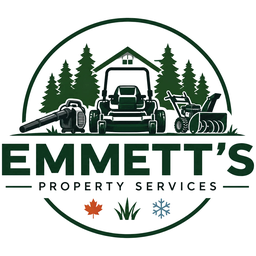
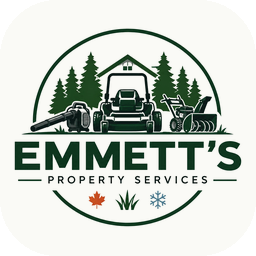
Fix the final review's findings
Visual:
- How it works: step titles centered under their rings again from md up.
- The quote button fits 320px phones (hero, in-season panel, menu sheet);
  the hero photo shrinks to the gutter and its crop clears the crew
  member's head.
- CallLink keeps the number on the prompt's baseline.
- Service rows stay stacked through tablets; wrapped icon rows hug their
  icons; form step titles balance; the /quote step line ends at the last
  ring; /contact and /quote eyebrows no longer repeat their headlines.

Accessibility:
- Focused elements scroll clear of the phone call bar.
- The menu sheet scrolls on short screens, skips its slide-in with
  reduced motion, and returns focus to the menu button on Escape.
- The theme's focus color no longer overrides outline-none (no double
  ring on service rows).
- Placeholder text reaches AA; the /contact ring number and the form's
  'Something not listed?' toggle are 44px targets; the hero kicker reads
  with a space.

Assets and code:
- Favicon on a rounded cream plate so it reads on dark tab strips; the
  crew app gets a maskable icon inside the safe circle.
- Marketing pages no longer preload Anton, which they don't use.
- The quote form uses ServiceBadge; drop ServiceGlyph, unused season icon
  keys and the unused maple/frost-light tokens; fix stale comments and
  README lines.

Claude-Session: https://claude.ai/code/session_01X4wNhSZ1epxn23EHwdy4vX

diff --git a/components/quote/quote-form.tsx b/components/quote/quote-form.tsx
@@ -6,7 +6,7 @@ import { AlertCircle, ArrowLeft, ArrowRight, Check, Loader2, Plus } from "lucide
 
 import { submitQuote } from "@/app/actions/quote";
 import { CallLink } from "@/components/site/call-link";
-import { ServiceGlyph } from "@/components/site/icons";
+import { ServiceBadge } from "@/components/site/icons";
 import { Button } from "@/components/ui/button";
 import { Input } from "@/components/ui/input";
 import { Label } from "@/components/ui/label";
@@ -96,7 +96,7 @@ function pickErrors(errors: QuoteFieldErrors, fields: readonly QuoteField[]): Qu
 /* ---------- small building blocks ---------- */
 
 // Forest over the shared input styles (the owner console's stay gray). /60 keeps the border above 3:1 on white.
-const controlSkin = "border-forest/60 text-forest shadow-none placeholder:text-forest-muted/70";
+const controlSkin = "border-forest/60 text-forest shadow-none placeholder:text-forest-muted";
 const inputClass = `h-12 rounded-xl px-4 text-base ${controlSkin}`;
 
 function FieldError({ id, message }: { id: string; message?: string }) {
@@ -202,12 +202,7 @@ function CheckRow({
           </span>
         )}
       </span>
-      {icon && (
-        // The badge's thin ring at icon scale (IconBadge's look; ServiceGlyph's heavier stroke thinned to match).
-        <span className="ml-auto flex size-9 shrink-0 items-center justify-center rounded-full border-[1.5px] border-forest text-forest">
-          <ServiceGlyph icon={icon} className="size-[1.125rem] [stroke-width:1.5]" />
-        </span>
-      )}
+      {icon && <ServiceBadge icon={icon} size="sm" className="ml-auto size-9 [&_svg]:size-[1.125rem]" />}
     </label>
   );
 }
@@ -234,7 +229,7 @@ function Group({
       {/* Step titles in the badge's heavy caps; secondary groups in the small letterspaced caps /contact uses. */}
       <legend
         className={cn(
-          "font-heading uppercase text-forest",
+          "text-balance font-heading uppercase text-forest",
           sub ? "text-sm font-bold leading-snug tracking-[0.12em]" : "text-[1.375rem] font-extrabold leading-[1.1] sm:text-[1.625rem]",
         )}
       >
@@ -641,7 +636,7 @@ export function QuoteForm({ services, defaultService, verifyAddress, turnstileSi
                 open={Boolean(values.customRequest || errors.customRequest || errors.services)}
                 className="group rounded-xl border border-dashed border-forest/40 transition-colors hover:border-forest/70 open:border-solid open:border-forest/25 open:p-4 motion-reduce:transition-none"
               >
-                <summary className="flex min-h-12 cursor-pointer list-none items-center gap-2 rounded-xl px-4 font-semibold text-forest group-open:mb-3 group-open:min-h-0 group-open:px-0 [&::-webkit-details-marker]:hidden">
+                <summary className="flex min-h-12 cursor-pointer list-none items-center gap-2 rounded-xl px-4 font-semibold text-forest group-open:mb-3 group-open:px-0 [&::-webkit-details-marker]:hidden">
                   <Plus
                     className="size-5 text-forest transition-transform group-open:rotate-45 motion-reduce:transition-none"
                     aria-hidden="true"

diff --git a/components/site/mobile-nav.tsx b/components/site/mobile-nav.tsx
@@ -1,7 +1,7 @@
 "use client";
 
 import Link from "next/link";
-import { useState } from "react";
+import { useRef, useState } from "react";
 import { ArrowRight, Menu, Phone } from "lucide-react";
 import { Sheet, SheetClose, SheetContent, SheetTitle, SheetTrigger } from "@/components/ui/sheet";
 import { Button } from "@/components/ui/button";
@@ -15,6 +15,12 @@ const closeButton =
 
 export function MobileNav() {
   const [open, setOpen] = useState(false);
+  // Set when a link closes the sheet: the page is navigating or scrolling to a section, so focus
+  // shouldn't jump back to the trigger. Escape and the close button still return focus to it.
+  const followedLink = useRef(false);
+  const onLinkClick = () => {
+    followedLink.current = true;
+  };
 
   return (
     <Sheet open={open} onOpenChange={setOpen}>
@@ -31,9 +37,12 @@ export function MobileNav() {
         side="right"
         aria-describedby={undefined}
         // theme-badge: the sheet portals outside the marketing layout, so it needs the forest focus ring itself.
-        className={`theme-badge flex w-[88%] flex-col border-l-0 bg-cream px-6 pb-[calc(1.5rem+env(safe-area-inset-bottom))] pt-20 sm:max-w-sm ${closeButton}`}
-        // Don't yank focus back to the trigger after tapping a link; the page is scrolling to a section.
-        onCloseAutoFocus={(e) => e.preventDefault()}
+        // It scrolls on landscape phones and at high zoom, and skips the slide-in with reduced motion.
+        className={`theme-badge flex w-[90%] flex-col overflow-y-auto overscroll-contain border-l-0 bg-cream px-5 pb-[calc(1.5rem+env(safe-area-inset-bottom))] pt-20 motion-reduce:data-[state=closed]:animate-none motion-reduce:data-[state=open]:animate-none sm:max-w-sm sm:px-6 ${closeButton}`}
+        onCloseAutoFocus={(e) => {
+          if (followedLink.current) e.preventDefault();
+          followedLink.current = false;
+        }}
       >
         <SheetTitle className="sr-only">{content.menu.title}</SheetTitle>
         <nav aria-label="Main">
@@ -43,6 +52,7 @@ export function MobileNav() {
                 <SheetClose asChild>
                   <Link
                     href={item.href}
+                    onClick={onLinkClick}
                     className="block py-5 font-heading text-[1.625rem] font-extrabold uppercase leading-none text-forest transition-colors hover:text-pine"
                   >
                     {item.label}
@@ -57,8 +67,9 @@ export function MobileNav() {
 
         <div className="mt-auto flex flex-col gap-3">
           <SheetClose asChild>
-            <Button asChild variant="cta" size="cta" className="w-full">
-              <Link href="/quote">
+            {/* A touch tighter on small phones so the full label fits the narrow sheet. */}
+            <Button asChild variant="cta" size="cta" className="w-full max-sm:px-4 max-sm:text-[0.875rem] max-sm:tracking-[0.1em]">
+              <Link href="/quote" onClick={onLinkClick}>
                 {content.cta.quote}
                 <ArrowRight aria-hidden="true" />
               </Link>

diff --git a/components/sections/contact.tsx b/components/sections/contact.tsx
@@ -36,7 +36,7 @@ export function ContactSection({
           <p className="font-heading text-xs font-semibold uppercase tracking-[0.26em] text-forest">{contact.callPrompt}</p>
           <a
             href={siteConfig.phone.href}
-            className="mt-4 whitespace-nowrap font-heading text-[1.625rem] font-extrabold leading-none text-forest transition-colors hover:text-pine sm:text-[2rem]"
+            className="mt-2 inline-flex min-h-11 items-center whitespace-nowrap font-heading text-[1.625rem] font-extrabold leading-none text-forest transition-colors hover:text-pine sm:text-[2rem]"
           >
             {siteConfig.phone.display}
           </a>
@@ -73,12 +73,12 @@ export function ContactSection({
             <ul className="mt-5 flex flex-col items-center gap-3 text-forest-body">
               <li className="flex max-w-xs items-start gap-2.5">
                 <MapPin className="mt-1 size-4 shrink-0 text-forest" aria-hidden="true" strokeWidth={1.75} />
-                <span>{siteConfig.serviceArea.summary}</span>
+                <span className="text-left">{siteConfig.serviceArea.summary}</span>
               </li>
               {siteConfig.email && (
                 <li className="flex items-start gap-2.5">
                   <Mail className="mt-1 size-4 shrink-0 text-forest" aria-hidden="true" strokeWidth={1.75} />
-                  <a href={`mailto:${siteConfig.email}`} className="break-all hover:text-forest">
+                  <a href={`mailto:${siteConfig.email}`} className="break-all text-left hover:text-forest">
                     {siteConfig.email}
                   </a>
                 </li>
@@ -86,7 +86,7 @@ export function ContactSection({
               {siteConfig.hours && (
                 <li className="flex items-start gap-2.5">
                   <Clock className="mt-1 size-4 shrink-0 text-forest" aria-hidden="true" strokeWidth={1.75} />
-                  <span>{siteConfig.hours}</span>
+                  <span className="text-left">{siteConfig.hours}</span>
                 </li>
               )}
             </ul>

diff --git a/components/site/footer.tsx b/components/site/footer.tsx
@@ -8,8 +8,8 @@ import { Eyebrow } from "./section-heading";
 
 /**
  * A quiet, symmetric colophon: links on one side, contact on the other, and between them the
- * badge's lower half in type (wordmark, ruled line, season marks). The closing section right above
- * already shows the full badge, so it isn't repeated here.
+ * badge's lower half in type (wordmark, ruled line, season marks). The header carries the full badge
+ * everywhere (and the home page's closing section shows it large), so it isn't repeated here.
  */
 export function SiteFooter() {
   const year = new Date().getFullYear();
@@ -66,7 +66,7 @@ export function SiteFooter() {
             {siteConfig.email && (
               <li className="flex items-start gap-2">
                 <Mail className="mt-1 size-4 shrink-0 text-forest" aria-hidden="true" strokeWidth={1.75} />
-                <a href={`mailto:${siteConfig.email}`} className="break-all hover:text-forest">
+                <a href={`mailto:${siteConfig.email}`} className="break-all text-left hover:text-forest">
                   {siteConfig.email}
                 </a>
               </li>
@@ -74,12 +74,12 @@ export function SiteFooter() {
             {siteConfig.hours && (
               <li className="flex items-start gap-2">
                 <Clock className="mt-1 size-4 shrink-0 text-forest" aria-hidden="true" strokeWidth={1.75} />
-                <span>{siteConfig.hours}</span>
+                <span className="text-left">{siteConfig.hours}</span>
               </li>
             )}
             <li className="flex max-w-xs items-start gap-2">
               <MapPin className="mt-1 size-4 shrink-0 text-forest" aria-hidden="true" strokeWidth={1.75} />
-              <span>
+              <span className="text-left">
                 <span className="sr-only">{content.footer.areaHeading}: </span>
                 {siteConfig.serviceArea.summary}
                 {cities.length > 1 && <span className="block text-forest-muted">{cities.join(" · ")}</span>}

diff --git a/components/sections/services.tsx b/components/sections/services.tsx
@@ -70,9 +70,9 @@ function ServiceRow({ service, index }: { service: Service; index: number }) {
     <Reveal
       as="li"
       delay={index * 70}
-      className="group relative grid grid-cols-[3rem_1fr] gap-x-5 gap-y-1.5 border-b border-forest/20 py-7 has-[a:focus-visible]:outline has-[a:focus-visible]:outline-[3px] has-[a:focus-visible]:outline-offset-2 has-[a:focus-visible]:outline-forest md:grid-cols-[3rem_minmax(0,17rem)_minmax(0,1fr)_auto] md:items-center md:gap-x-8"
+      className="group relative grid grid-cols-[3rem_1fr] gap-x-5 gap-y-1.5 border-b border-forest/20 py-7 has-[a:focus-visible]:outline has-[a:focus-visible]:outline-[3px] has-[a:focus-visible]:outline-offset-2 has-[a:focus-visible]:outline-forest lg:grid-cols-[3rem_minmax(0,17rem)_minmax(0,1fr)_auto] lg:items-center lg:gap-x-8"
     >
-      <ServiceBadge icon={service.icon} className="row-span-3 md:row-span-1" />
+      <ServiceBadge icon={service.icon} className="row-span-3 lg:row-span-1" />
       <h3 className="font-heading text-[0.9375rem] font-bold uppercase leading-snug tracking-[0.08em] text-forest decoration-1 underline-offset-[5px] group-hover:underline">
         {service.title}
       </h3>
@@ -82,7 +82,7 @@ function ServiceRow({ service, index }: { service: Service; index: number }) {
       </p>
       <Link
         href={`/quote?service=${service.slug}`}
-        className="inline-flex min-h-11 w-fit items-center gap-2 whitespace-nowrap font-heading text-xs font-semibold uppercase tracking-[0.2em] text-forest outline-none after:absolute after:inset-0 after:content-['']"
+        className="inline-flex min-h-11 w-fit items-center gap-2 whitespace-nowrap font-heading text-xs font-semibold uppercase tracking-[0.2em] text-forest focus-visible:outline-none after:absolute after:inset-0 after:content-['']"
       >
         {content.services.linkLabel}
         <span className="sr-only">: {service.title}</span>

diff --git a/lib/content.ts b/lib/content.ts
@@ -1,7 +1,7 @@
 /**
  * All site copy lives here so text can be edited without touching components.
  * Headlines are arrays: each entry is one line of the big headline.
- * Eyebrows are the small letterspaced labels between thin rules above each home page section.
+ * Eyebrows are the small letterspaced labels between thin rules above section and page headings.
  */
 
 import { siteConfig } from "./site-config";
@@ -100,7 +100,6 @@ export const content = {
         season: "Spring & Summer",
         title: "Mowing",
         body: "Regular mowing, trimming, and edging from the first cut to the last.",
-        icon: "sprout",
         serviceSlug: "lawn-mowing",
         image: {
           src: "/images/mower-lawn.jpg",
@@ -111,7 +110,6 @@ export const content = {
         season: "Fall",
         title: "Cleanup",
         body: "Leaves out of the lawn, beds, and gutters before the ground freezes.",
-        icon: "leaf",
         serviceSlug: "fall-cleanup",
         image: {
           src: "/images/fall-leaves-lawn.jpg",
@@ -122,7 +120,6 @@ export const content = {
         season: "Winter",
         title: "Snow removal",
         body: "Driveways and walkways cleared with a snowblower.",
-        icon: "snowflake",
         serviceSlug: "snow-removal",
         image: {
           src: "/images/snow-driveway.jpg",
@@ -153,14 +150,14 @@ export const content = {
   },
 
   contactPage: {
-    eyebrow: "Contact",
+    eyebrow: siteConfig.altName,
     headline: ["Contact", "us"],
     body: "One call is all it takes. Tell us what your yard needs and we'll give you a price.",
   },
 
   quote: {
     cta: "Get a quote",
-    eyebrow: "Free quote",
+    eyebrow: "No obligation",
     headline: ["Get your", "free quote"],
     body: "Tell us about your yard and what you need. We'll look it over and send you a price. No pressure, and you can always call us instead.",
     steps: {

diff --git a/components/sections/hero.tsx b/components/sections/hero.tsx
@@ -14,7 +14,7 @@ const delay = (ms: number) => ({ "--d": `${ms}ms` }) as CSSProperties;
 /**
  * The letterspaced line, the heavy wordmark-style headline and the one loud action, beside the
  * scene in its ring (season marks at its foot, like the badge). On phones the ring follows the
- * text, so the quote button, shortcuts and trust points all land in the first screen.
+ * text, so the quote button lands in the first screen; the shortcuts and trust points follow on taller phones.
  */
 export function Hero() {
   const { hero } = content;
@@ -27,8 +27,8 @@ export function Hero() {
             <Eyebrow align="start">
               {/* The header already names the business, and the full line won't fit on phones or in the tablet column. */}
               <span className="max-sm:sr-only md:max-lg:sr-only">
-                {hero.kicker.name}
-                <span aria-hidden="true">&nbsp;&middot;&nbsp;</span>
+                {hero.kicker.name}{" "}
+                <span aria-hidden="true">&middot;&nbsp;</span>
               </span>
               {hero.kicker.place}
             </Eyebrow>
@@ -90,9 +90,9 @@ export function Hero() {
             alt={hero.image.alt}
             priority
             draw
-            position="38% 32%"
+            position="38% 8%"
             sizes="(min-width: 1280px) 448px, (min-width: 768px) 38vw, 288px"
-            className="w-72 md:w-full md:max-w-[28rem]"
+            className="w-full max-w-72 md:max-w-[28rem]"
             ornament={<SeasonTrio />}
           />
         </div>

diff --git a/app/(marketing)/quote/page.tsx b/app/(marketing)/quote/page.tsx
@@ -36,11 +36,14 @@ export default async function QuotePage({ searchParams }: { searchParams: { serv
           {/* On phones this would push the form below the fold; the thanks page repeats it anyway. */}
           <div className="mt-12 hidden border-t border-forest/10 pt-10 lg:block">
             <h2 className="font-heading text-sm font-bold uppercase tracking-[0.12em] text-forest">{quote.steps.heading}</h2>
-            <ol className="relative mt-6 space-y-5">
-              {/* A hairline threading the numbered rings, like the steps on the home page. */}
-              <span aria-hidden="true" className="absolute inset-y-4 left-4 w-px -translate-x-1/2 bg-forest/20" />
+            <ol className="mt-6 space-y-5">
               {quote.steps.items.map((item, i) => (
                 <li key={item} className="relative flex items-start gap-4 text-forest-body">
+                  {/* A hairline from this ring to the next, like the steps on the home page; drawn per gap so
+                      it ends at the last ring however the text wraps. */}
+                  {i < quote.steps.items.length - 1 && (
+                    <span aria-hidden="true" className="absolute -bottom-5 left-4 top-8 w-px -translate-x-1/2 bg-forest/20" />
+                  )}
                   <span
                     aria-hidden="true"
                     className="flex size-8 shrink-0 items-center justify-center rounded-full border-[1.5px] border-forest bg-cream font-heading text-sm font-semibold text-forest"

diff --git a/components/site/call-link.tsx b/components/site/call-link.tsx
@@ -16,14 +16,15 @@ export function CallLink({ prompt, tone = "light", className }: CallLinkProps) {
   return (
     <p className={cn("text-[0.9375rem]", dark ? "text-cream/75" : "text-forest-muted", className)}>
       {prompt && <>{prompt} </>}
+      {/* Inline-block, not inline-flex, so the number keeps the prompt's baseline; the padding makes a 44px target. */}
       <a
         href={siteConfig.phone.href}
         className={cn(
-          "inline-flex min-h-11 items-center gap-1.5 whitespace-nowrap font-semibold underline decoration-1 underline-offset-[6px] transition-colors",
+          "inline-block whitespace-nowrap py-2.5 font-semibold underline decoration-1 underline-offset-[6px] transition-colors",
           dark ? "text-cream decoration-cream/40 hover:decoration-cream" : "text-forest decoration-forest/30 hover:decoration-forest",
         )}
       >
-        <Phone className="size-4" aria-hidden="true" strokeWidth={1.75} />
+        <Phone className="mr-1.5 inline-block size-4 align-[-0.1875rem]" aria-hidden="true" strokeWidth={1.75} />
         {siteConfig.phone.display}
       </a>
     </p>

diff --git a/app/globals.css b/app/globals.css
@@ -35,6 +35,12 @@
     scroll-padding-top: calc(var(--header-h) + 1rem);
     -webkit-tap-highlight-color: transparent;
   }
+  /* Phones: keep focused and scrolled-to elements clear of the marketing pages' fixed call bar too. */
+  @media (max-width: 767px) {
+    html:has(.theme-badge) {
+      scroll-padding-bottom: calc(4.25rem + env(safe-area-inset-bottom) + 1rem);
+    }
+  }
 
   @media (prefers-reduced-motion: no-preference) {
     html {
@@ -72,11 +78,12 @@
     color: theme("colors.ink");
   }
 
-  /* Marketing pages wear the badge: forest focus ring and selection on cream, cream on forest. */
-  .theme-badge :focus-visible {
+  /* Marketing pages wear the badge: forest focus ring and selection on cream, cream on forest.
+     :where() keeps these no more specific than the rules they recolor, so outline-none still wins. */
+  :where(.theme-badge) :focus-visible {
     outline-color: theme("colors.forest");
   }
-  .theme-badge .on-dark :focus-visible {
+  :where(.theme-badge) .on-dark :focus-visible {
     outline-color: theme("colors.cream");
   }
   .theme-badge ::selection {

diff --git a/app/opengraph-image.tsx b/app/opengraph-image.tsx
@@ -36,7 +36,7 @@ export default async function OpenGraphImage() {
     (
       <div style={{ width: "100%", height: "100%", display: "flex", alignItems: "center", background: CREAM, fontFamily: "Montserrat" }}>
         <div style={{ display: "flex", flexDirection: "column", justifyContent: "center", padding: "0 0 0 84px", width: 660 }}>
-          {/* The badge's letterspaced PROPERTY SERVICES line, rules and all. */}
+          {/* The site's left-aligned eyebrow: letterspaced caps behind one rule. */}
           <div style={{ display: "flex", alignItems: "center", gap: 18, fontSize: 22, fontWeight: 600, letterSpacing: 7, color: FOREST }}>
             <div style={rule} />
             {content.hero.kicker.place.toUpperCase()}

diff --git a/tailwind.config.ts b/tailwind.config.ts
@@ -37,9 +37,7 @@ const config: Config = {
         "maple-ink": "#A9431D", // maple for small text (5.7:1 on cream, 5.1:1 on sage)
         frost: "#4C778B", // winter glyph, exact; icons and large type only
         "frost-ink": "#3F687A", // frost for small text (5.8:1 on cream, 5.2:1 on sage)
-        // Season accents on a forest background (all ≥5.7:1 on forest).
-        "maple-light": "#E08A62",
-        "frost-light": "#8FB6C8",
+        // The grass accent on a forest background: check marks and pins (7.7:1 on forest).
         "grass-light": "#9CC58F",
 
         // shadcn/ui semantic tokens, mapped onto the brand palette in globals.css
